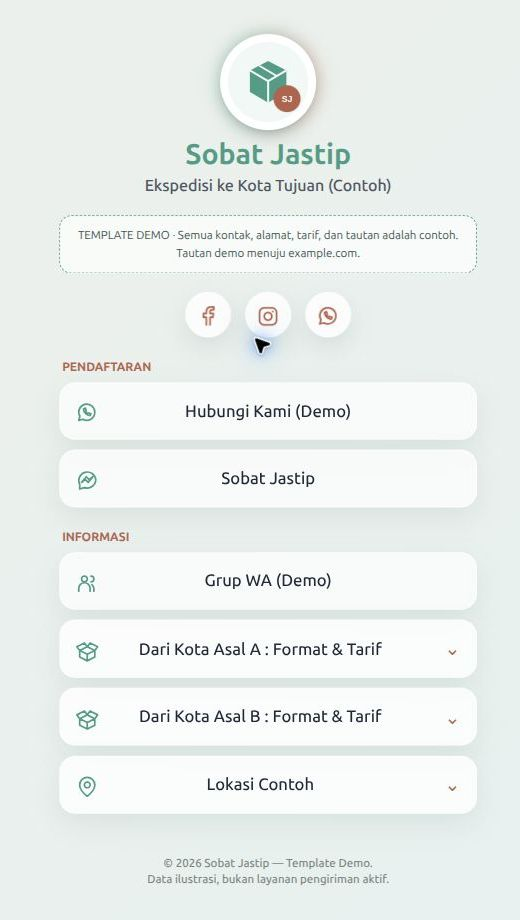
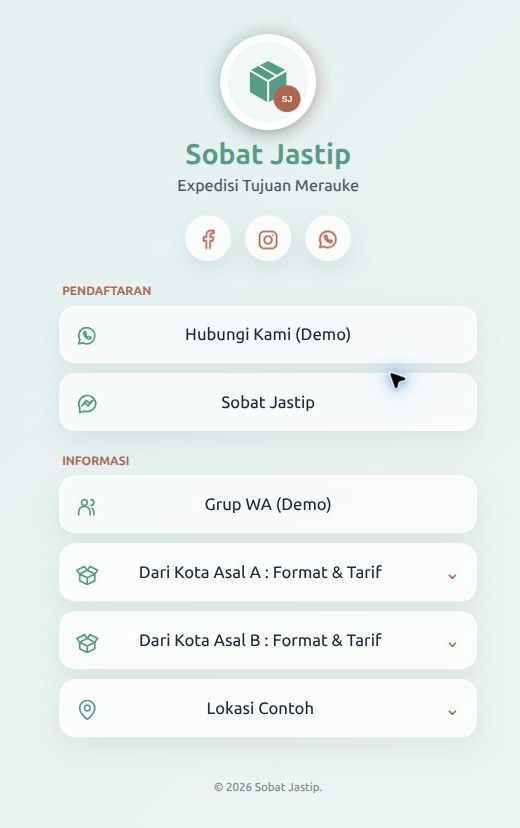
Simplify Sobat Jastip tagline and remove demo notice from the page

diff --git a/Sobat Jastip/index.html b/Sobat Jastip/index.html
@@ -25,9 +25,7 @@
         </div>
 
         <h1 class="brand-title text-xl font-bold text-primary tracking-wide mb-0">Sobat Jastip</h1>
-        <p class="brand-subtitle text-xs text-gray-600 font-medium mb-3">Ekspedisi ke Kota Tujuan (Contoh)</p>
-
-        <p class="demo-notice">TEMPLATE DEMO · Semua kontak, alamat, tarif, dan tautan adalah contoh. Tautan demo menuju example.com.</p>
+        <p class="brand-subtitle text-xs text-gray-600 font-medium mb-3">Expedisi Tujuan Merauke</p>
 
         <div class="contact-shortcuts flex gap-4 mb-4">
             <a aria-label="Facebook demo" href="https://example.com/sobat-jastip/facebook" target="_blank" rel="noopener noreferrer" class="contact-shortcut w-10 h-10 flex items-center justify-center bg-white/80 backdrop-blur-sm text-secondary text-lg rounded-full shadow-md border border-white/50 transition-all duration-300 hover:bg-primary hover:text-white hover:-translate-y-1">
@@ -164,8 +162,7 @@ Telepon contoh: 08xx-xxxx-0004</div>
         </div>
 
         <footer class="site-footer mt-6 text-[10px] text-gray-400 font-medium tracking-wide mb-2">
-            &copy; 2026 Sobat Jastip — Template Demo.
-            <br>Data ilustrasi, bukan layanan pengiriman aktif.
+            &copy; 2026 Sobat Jastip.
         </footer>
     </div>
 

diff --git a/Sobat Jastip/style.css b/Sobat Jastip/style.css
@@ -336,5 +336,4 @@ details[open] > summary::after {
 
 /* Demo: no external fonts, icon services, or original business assets. */
 .local-icon { width: 1.2em; height: 1.2em; fill: none; stroke: currentColor; stroke-width: 1.8; stroke-linecap: round; stroke-linejoin: round; display: inline-block; vertical-align: middle; }
-.demo-notice { margin: 0 0 18px; padding: 10px 12px; max-width: 100%; border: 1px dashed #129e85; border-radius: 12px; background: #ffffffb3; color: #335650; font-size: 0.72rem; line-height: 1.6; text-align: center; }
 @media (prefers-reduced-motion: reduce) { *, *::before, *::after { animation: none !important; transition: none !important; } }
